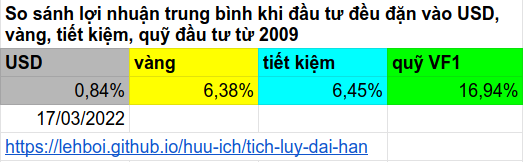
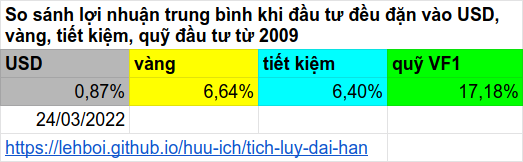
update VFM

diff --git a/huu-ich/dau-tu-co-phieu/so-tk-hay-dau-tu.html b/huu-ich/dau-tu-co-phieu/so-tk-hay-dau-tu.html
@@ -260,25 +260,25 @@ data-ad-slot="5275186684">
   <p>Các nhà kinh tế nói rằng đầu tư dài hạn vào quỹ đầu tư sẽ có lợi hơn gửi tiết kiệm ở ngân hàng. Lý thuyết đó có đúng trong thực tế không, và nhất là có đúng với thị trường Việt Nam không?</p>
   <h2>Kết quả thực tế</h2>
   <p>Trong bài này, tôi sẽ so sánh kết quả giữa hai phương tiện trên bằng những tính toán trên những số liệu thực tế trong một thời gian dài hơn 13 năm.
-  <br>Thời điểm bắt đầu tính là đầu năm 2009. Từ ngày đó đến ngày 24/02/2022 <!-- Chung!A3 -->
+  <br>Thời điểm bắt đầu tính là đầu năm 2009. Từ ngày đó đến ngày 24/03/2022 <!-- Chung!A3 -->
  là hơn 13 năm.</p>
-  <p>Giả sử anh A tích luỹ tiền bằng cách gửi tiết kiệm ở ngân hàng. Bắt đầu từ đầu năm 2009, mỗi bốn tuần (mỗi năm 13 lần ứng với 13 tháng lương) anh A gửi một triệu đồng vào một sổ tiết kiệm kỳ hạn 12 tháng ở Ngân hàng Ngoại thương Việt Nam, khi đáo hạn sổ đó thì nhập lãi vào gốc để gửi tiếp kỳ mới. Số tiền anh A đã gửi vào là 172 <!-- tiết!B2 -->
- triệu đồng. Vào ngày 24/02/2022 <!-- tiết!A2 -->
- tổng giá trị gốc và lãi là <b> 266,824 <!-- tiết!C2 -->
- triệu đồng</b>, tính ra lợi nhuận trung bình của việc tích luỹ này là <b> 6,45%/năm <!-- tiết!C1 -->
+  <p>Giả sử anh A tích luỹ tiền bằng cách gửi tiết kiệm ở ngân hàng. Bắt đầu từ đầu năm 2009, mỗi bốn tuần (mỗi năm 13 lần ứng với 13 tháng lương) anh A gửi một triệu đồng vào một sổ tiết kiệm kỳ hạn 12 tháng ở Ngân hàng Ngoại thương Việt Nam, khi đáo hạn sổ đó thì nhập lãi vào gốc để gửi tiếp kỳ mới. Số tiền anh A đã gửi vào là 173 <!-- tiết!B2 -->
+ triệu đồng. Vào ngày 24/03/2022 <!-- tiết!A2 -->
+ tổng giá trị gốc và lãi là <b> 268,214 <!-- tiết!C2 -->
+ triệu đồng</b>, tính ra lợi nhuận trung bình của việc tích luỹ này là <b> 6,40%/năm <!-- tiết!C1 -->
 
 </b>. Mặc dù trong 13 năm qua có những lúc lãi suất tiết kiệm lên đến 14%/năm, nhưng do anh A gửi góp theo thời gian nên những khoản tiền gửi trễ sinh ra ít tiền lãi hơn những khoản tiền gửi sớm. Lợi nhuận trung bình đó đang giảm dần vì lãi suất tiết kiệm đã thấp hơn số trung bình đó từ bảy năm nay. Số liệu tính toán <a href="https://docs.google.com/spreadsheets/d/1y8MlFiTKj5W-iJn-okNu5DF4hlFQX-dK-xxNzhUHDh4/edit?usp=sharing" target='_blank'>trong bảng tính này</a>.</p>
 
-  <p>Giả sử anh B tích luỹ tiền bằng quĩ đầu tư VF1. Bắt đầu từ đầu năm 2009 mỗi bốn tuần anh B gửi một triệu đồng vào quỹ <b>VF1</b>. Số tiền anh B đã gửi vào cũng là 172 <!-- tiết!B2 -->
- triệu đồng như anh A. Vào ngày 24/02/2022 <!-- Chung!A3 -->
- giá trị tài khoản đầu tư của anh B là <b> 585,298 <!-- DCDS!J4 -->
- triệu đồng</b>. Lợi nhuận trung bình của việc tích luỹ này là <span class="red"><b> 17,24%/năm <!-- DCDS!J2 -->
+  <p>Giả sử anh B tích luỹ tiền bằng quĩ đầu tư VF1. Bắt đầu từ đầu năm 2009 mỗi bốn tuần anh B gửi một triệu đồng vào quỹ <b>VF1</b>. Số tiền anh B đã gửi vào cũng là 173 <!-- tiết!B2 -->
+ triệu đồng như anh A. Vào ngày 24/03/2022 <!-- Chung!A3 -->
+ giá trị tài khoản đầu tư của anh B là <b> 590,785 <!-- DCDS!J4 -->
+ triệu đồng</b>. Lợi nhuận trung bình của việc tích luỹ này là <span class="red"><b> 17,18%/năm <!-- DCDS!J2 -->
  </b></span>.</p>
 
   <p>Bảng dưới đây cho biết lợi nhuận trung bình của mọi khoản đầu tư đều đặn vào những quỹ đầu tư trong 10/5/3/2/1 năm qua.</p>
   <div><amp-img alt="Kết quả đầu tư đều đặn" src="/data/VFM.png" height="281" width="565" layout="responsive"></amp-img></a></div>
 
-  <p>Trong thực tế thì số tiền anh A có chắc chắn phải thấp hơn 266,824 <!-- tiết!C2 -->
+  <p>Trong thực tế thì số tiền anh A có chắc chắn phải thấp hơn 268,214 <!-- tiết!C2 -->
  triệu đồng vì:</p>
   <ol>
     <li>Tiền lãi khi đáo hạn sẽ bị làm tròn xuống đến hàng ngàn, và những tiền lẻ dưới chục ngàn hoặc trăm ngàn sẽ không được nhập vào gốc để sinh lời tiếp vì anh A thấy nó lẻ.</li>
@@ -286,7 +286,7 @@ data-ad-slot="5275186684">
     <li>Không dễ để nhớ gửi tiền tiết kiệm đều đặn nhưng lại rất dễ để rút tiền ra dùng khi cần mua sắm iPhone, LED TV, scooter làm cho số tiền bị hao hụt nhiều.</li>
   </ol>
 
-  <p>Ngoài ra, khi gửi ngân hàng kiểu đó thì anh A phải giữ từ 14 đến 172 <!-- tiết!B2 -->
+  <p>Ngoài ra, khi gửi ngân hàng kiểu đó thì anh A phải giữ từ 14 đến 173 <!-- tiết!B2 -->
  sổ tiết kiệm. Có thời gian tôi cũng làm như vậy (online) và tôi cảm thấy vô cùng lúng túng với hàng loạt con số trên màn hình. Trong khi đó đầu tư vào quỹ đầu tư thì mỗi người chỉ cần biết một vài con số.
   <br>Ngân hàng cũng có một loại tiết kiệm mà không tạo ra nhiều sổ, đó là tiết kiệm gửi góp. Tôi khuyên các bạn đừng dùng các loại tiết kiệm gửi góp của các ngân hàng. Mặc dù nó có vẻ giống như các kế hoạch đầu tư ở chỗ góp tiền vào một tài khoản, nhưng các ngân hàng không chuyên quản lý sổ tiết kiệm dài hạn và họ cũng không thích việc đó nên lãi suất dạng đó thấp hơn lãi suất 12 tháng. Tôi đã có một kinh nghiệm không vui với loại tiết kiệm gửi góp đó, sẽ kể lại trong một trang khác.</p>
 
@@ -308,10 +308,10 @@ data-ad-slot="5275186684">
   <p>Các con số lãi suất ở trên là lãi kép nên thời gian càng dài thì kết quả càng lớn. Ví dụ với lãi suất như trên, gửi mỗi bốn tuần một triệu đồng sau 30 năm sẽ từ 390 triệu đồng:</p>
   <span class="red">
   <ul>
-    <li>được khoảng 1,008 <!-- So!A4 -->
+    <li>được khoảng 1,006 <!-- So!A4 -->
  tỉ đồng nếu gửi ngân hàng</li>
-    <li>được khoảng 9,636 <!-- So!A7 -->
- tỉ đồng nếu gửi quỹ đầu tư, <b>bằng 9,55 <!-- So!A8 -->
+    <li>được khoảng 9,517 <!-- So!A7 -->
+ tỉ đồng nếu gửi quỹ đầu tư, <b>bằng 9,45 <!-- So!A8 -->
  lần gửi ngân hàng</b></li>
   </ul>
   </span>
@@ -343,15 +343,15 @@ data-ad-slot="5275186684">
 </amp-ad>
 
   <h2 id="goldusd">Tiết kiệm bằng USD hoặc vàng có tốt hơn không?</h2>
-  <p>Tôi giả định rằng chị U mua 100 USD mỗi bốn tuần từ đầu năm 2009 đến nay chị U có 17.200 <!-- Gold!J3 -->
- USD tương đương 390,096 <!-- Gold!L4 -->
- triệu đồng và chị U đã bỏ ra hết 369,937 <!-- Gold!K3 -->
- triệu đồng, tính ra lợi nhuận trung bình của việc tích luỹ này là 0,84%/năm <!-- Gold!L2 -->
+  <p>Tôi giả định rằng chị U mua 100 USD mỗi bốn tuần từ đầu năm 2009 đến nay chị U có 17.300 <!-- Gold!J3 -->
+ USD tương đương 393,315 <!-- Gold!L4 -->
+ triệu đồng và chị U đã bỏ ra hết 372,211 <!-- Gold!K3 -->
+ triệu đồng, tính ra lợi nhuận trung bình của việc tích luỹ này là 0,87%/năm <!-- Gold!L2 -->
 .
-  <br>Lại giả định tiếp, từ đầu năm 2009 đến nay mỗi bốn tuần chị G dùng 100 USD mua một số gram vàng lẻ đến một phần triệu gram. Đến nay chị G có 398,033 <!-- Gold!I4 -->
- gram vàng, trị giá 24.777,52 <!-- Gold!J4 -->
- USD. Như vậy với cùng số tiền bỏ ra như chị U, nhưng chị G thu lại được nhiều hơn 44,06% <!-- Gold!L3 -->
- và  lợi nhuận trung bình của việc tích luỹ này là 6,38%/năm <!-- Gold!K2 -->
+  <br>Lại giả định tiếp, từ đầu năm 2009 đến nay mỗi bốn tuần chị G dùng 100 USD mua một số gram vàng lẻ đến một phần triệu gram. Đến nay chị G có 399,615 <!-- Gold!I4 -->
+ gram vàng, trị giá 25.247,69 <!-- Gold!J4 -->
+ USD. Như vậy với cùng số tiền bỏ ra như chị U, nhưng chị G thu lại được nhiều hơn 45,94% <!-- Gold!L3 -->
+ và  lợi nhuận trung bình của việc tích luỹ này là 6,64%/năm <!-- Gold!K2 -->
 , thấp hơn gửi tiết kiệm VND và thấp hơn tích luỹ bằng quỹ đầu tư. Lợi nhuận trung bình này có lẽ cũng tương đương mức trượt giá trung bình trong cùng thời gian, điều đó cho thấy tích luỹ bằng vàng không có lời.
   <br>Các số liệu về tỷ giá USD-VND và giá vàng từ đầu năm 2009 đến nay được lấy từ website Vietcombank.com.vn và www.gold.org.</p>
   <p>Bảng dưới đây so sánh lợi nhuận trung bình của việc đầu tư đều đặn vào các kênh từ năm 2009.</p>
